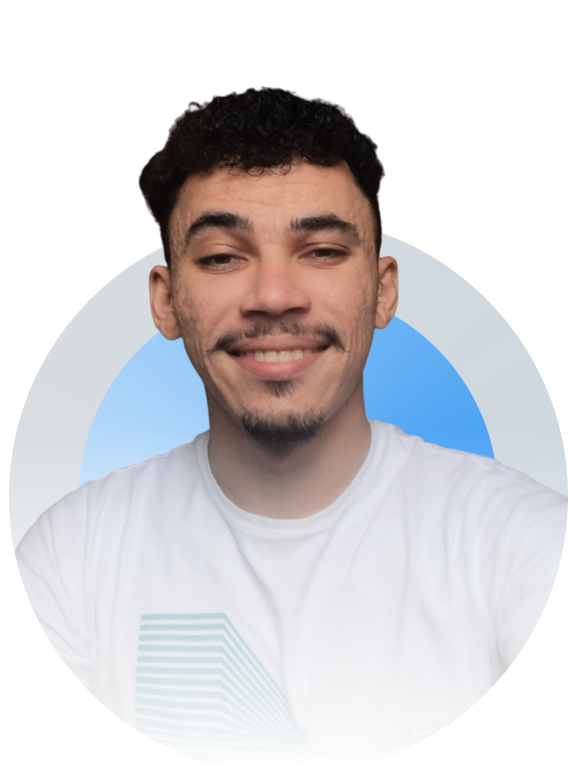
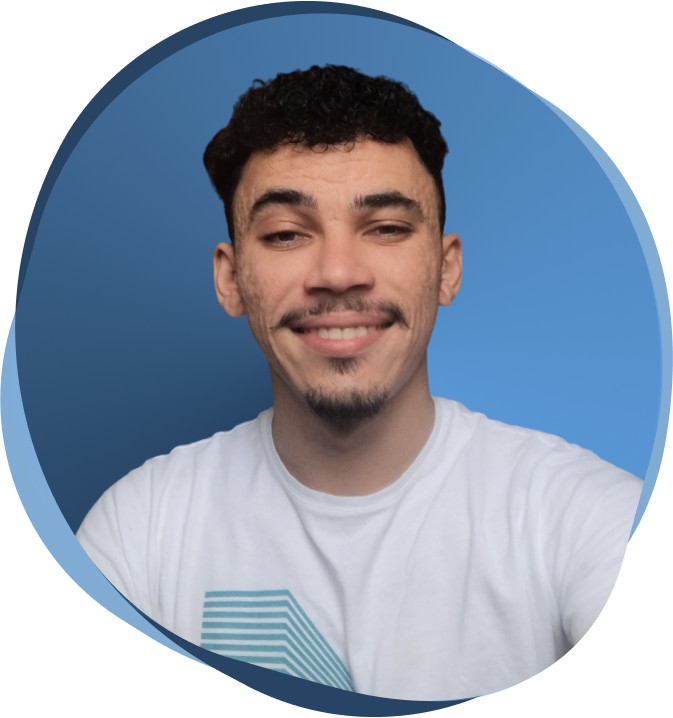
feat: modife image home hero, ajustments finals

diff --git a/src/components/SkillItem/styles.ts b/src/components/SkillItem/styles.ts
@@ -25,19 +25,6 @@ export const Container = styled.div`
     transition: all 0.5s ease-out;
   }
 
-  &::before {
-    content: '';
-    width: 100%;
-    height: 2px;
-    background: ${({ theme }) => theme.primary};
-    position: absolute;
-    bottom: -15%;
-    left: 0;
-    transform: scaleX(0);
-    transform-origin: bottom center;
-    transition: transform 0.5s ease-out;
-  }
-
   &:hover {
     p {
       color: ${({ theme }) => theme.primary};
@@ -46,11 +33,6 @@ export const Container = styled.div`
     svg {
       color: ${({ theme }) => theme.primary};
       transform: scale(0.85);
-    }
-
-    &::before {
-      transform: scaleX(1);
-      transform-origin: bottom center;
     }
   }
 

diff --git a/src/components/About/styles.ts b/src/components/About/styles.ts
@@ -9,7 +9,7 @@ export const Container = styled.div`
     display: flex;
     gap: 3rem;
     align-items: center;
-    background: ${({ theme }) => theme.gradientSecondary};
+    background: ${({ theme }) => theme.gradient};
     padding: 4rem;
     margin-block: 6rem;
     border-radius: 0.5rem;

diff --git a/src/components/CodeItem/styles.ts b/src/components/CodeItem/styles.ts
@@ -12,6 +12,7 @@ export const Container = styled.pre`
   align-self: flex-start;
   cursor: pointer;
   transition: 1s !important;
+  border-radius: 0.5rem;
 
   &:last-child {
     align-self: flex-end;

diff --git a/src/components/Works/styles.ts b/src/components/Works/styles.ts
@@ -62,7 +62,7 @@ export const WorkContainer = styled.div`
 
   h1 {
     font-size: 2.5rem;
-    font-family: 'JetBrains', monospace;
+    color: ${({ theme }) => theme.textHighlight};
   }
 
   p {
